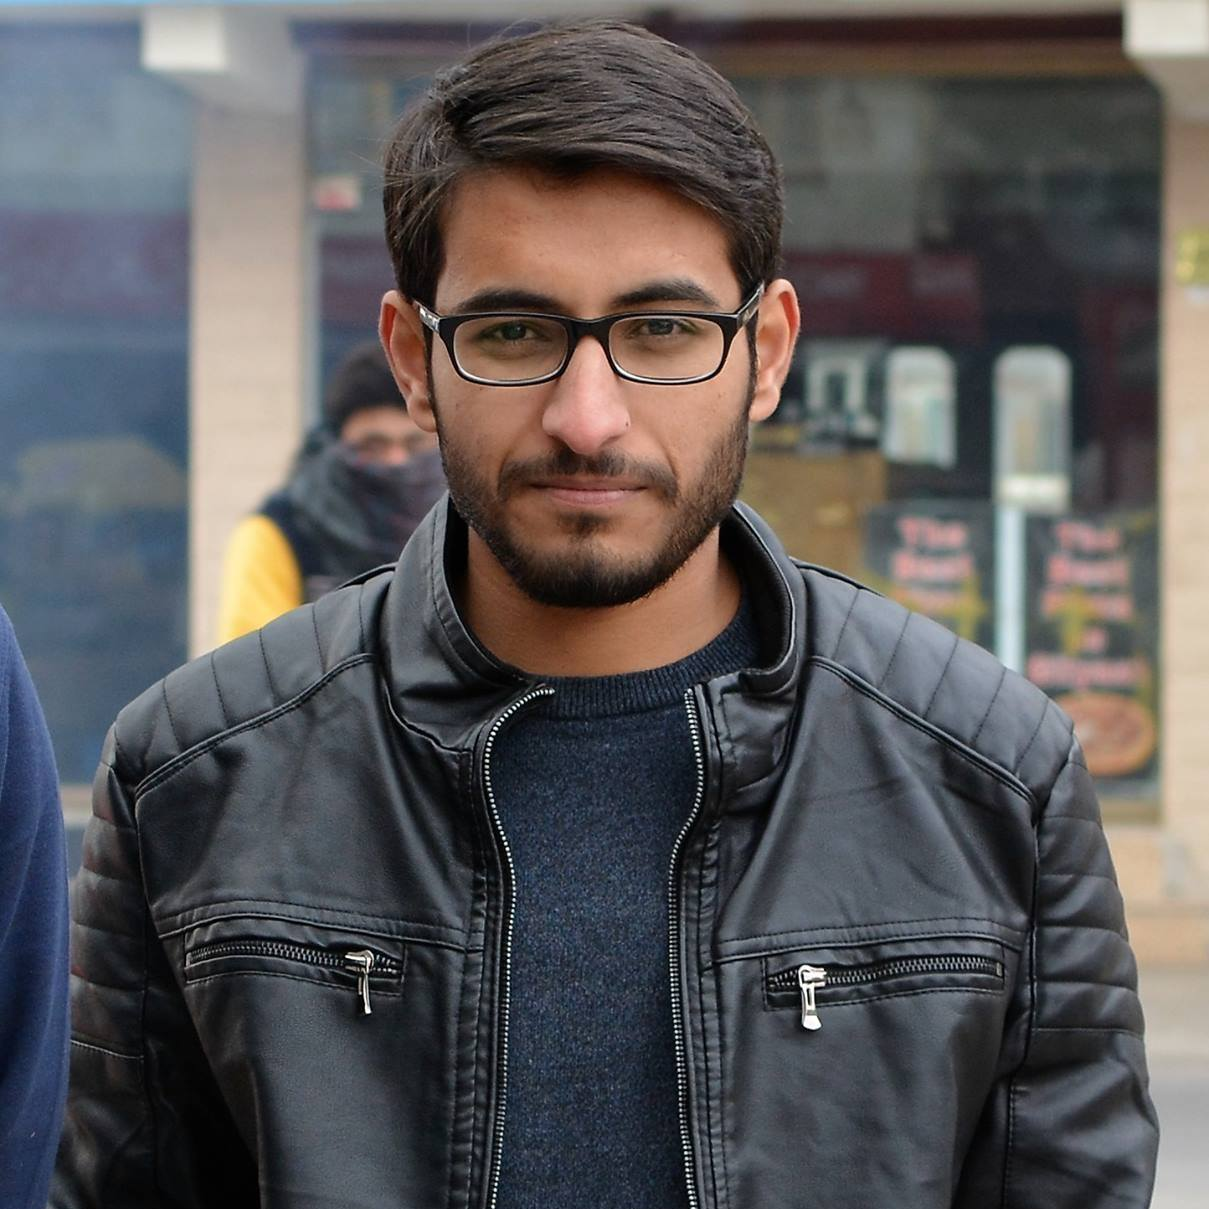
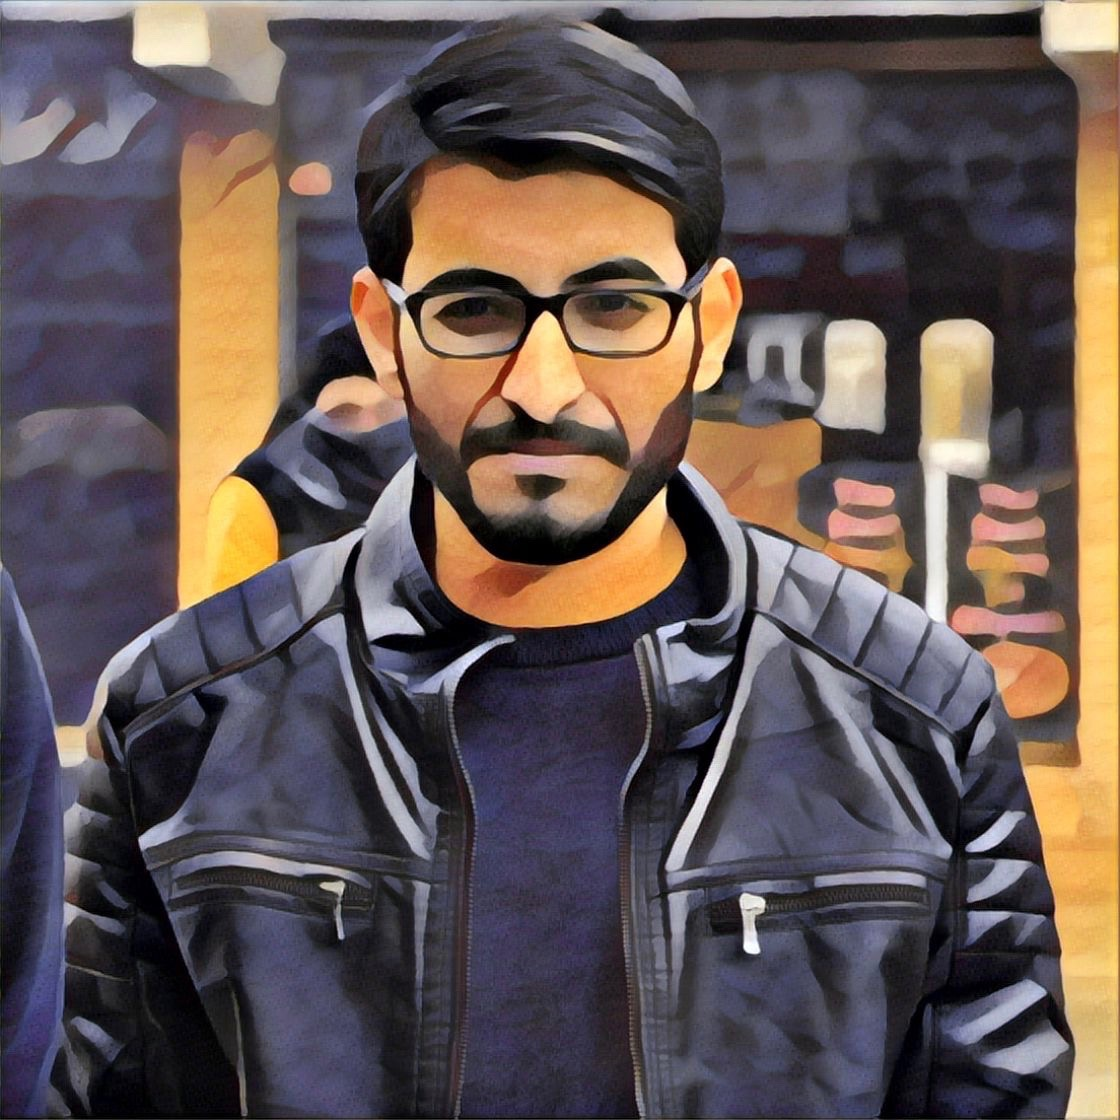
update profile image + links added

diff --git a/index.html b/index.html
@@ -38,22 +38,23 @@
           <div class="col-md-6 title pl-5">
             <h1 class="text-left">RAHEEL IFTIKHAR</h1>
             <h2 class="text-left">Frontend Developer</h2>
+            <button class="download-resume">Download Resume</button>
           </div>
         </div>
         <div class="social text-center">
-          <a href="#">
+          <a href="mailto:iraheel021@gmail.com">
             EMAIL
           </a>
-          <a href="#">
+          <a href="tel:+923125057587">
             PHONE
           </a>
-          <a href="#">
+          <a href="skype:raheel.iftikhar5">
             SKYPE
           </a>
-          <a href="#">
+          <a href="https://www.linkedin.com/in/iraheel021" target="_blank">
             LINKEDIN
           </a>
-          <a href="#">
+          <a href="https://github.com/raheeliftikhar5" target="_blank">
             GITHUB
           </a>
         </div>
@@ -83,6 +84,14 @@
                   <li>
                     <div>Bachelors of Science in Computer Science - BS(CS)</div>
                     <div>National University of Computer & Emerging Sciences, Islamabad  (2011 - 2015)</div>
+                  </li>
+                </ul>
+              </div>
+              <div class="about-item">
+                <h4>CERTIFICATES</h4>
+                <ul>
+                  <li>
+                    <div>Best Employee of the Year (2018) - HireNinja Inc.</div>
                   </li>
                 </ul>
               </div>
@@ -221,7 +230,23 @@
       <div class="container">
         <h1 class="section-head">MY PORTFOLIO</h1>
         <div class="inner-content">
-
+          <!-- <div class="row portfolio-item d-flex justify-content-center align-items-center">
+            <div class="col-md-5">
+              <h2 class="text-left">LUMINARY</h2>
+            </div>
+            <div class="col-md-6">
+              <div class="content">
+                <p>Luminary is a platform that describes itself as "Netflix for Podcast". Luminary offers exclusive content with monthly subscription plans.</p>
+                <p class="mb-4">I have worked on the admin dashboard where companies register themselves, manage team members and get a license using ERC20 tokens to get listed on marketplace.</p>
+                <div class="d-flex flex-row flex-wrap">
+                  <p class="skill-card card">VueJS</p>
+                  <p class="skill-card card">ElementUI</p>
+                  <p class="skill-card card">Firebase SDK</p>
+                  <p class="skill-card card">Segment</p>
+                </div>
+              </div>
+            </div>
+          </div> -->
           <div class="row portfolio-item d-flex justify-content-center align-items-center">
             <div class="col-md-5">
               <!-- <img class="image" src="./images/portfolio.png"> -->

diff --git a/styles/style.css b/styles/style.css
@@ -33,13 +33,15 @@ p {
     color: #161479;
     margin-right: 1rem;
 }
+
 section.bg-primary .card {
     box-shadow: none;
     color: #161479;
     margin-right: 1rem;
     margin-bottom: 1rem;
     font-size: 1rem;
-    padding: 0.5rem 1rem;
+    padding: 0.25rem 1rem;
+    border-radius: unset;
 }
 
 .progress-bar {
@@ -104,6 +106,16 @@ section.bg-primary .card {
 
 .hero-banner .designation {
     border-left: 3px solid white;
+}
+.hero-banner .download-resume {
+    padding: 0.4rem 1.75rem;
+    margin-top: 0.8rem;
+    cursor: pointer;
+    font-weight: bold;
+    border-radius: 1px;
+    color: white;
+    background: #d93d32;
+    border: 1px solid white;
 }
 
 .hero-banner .header {
